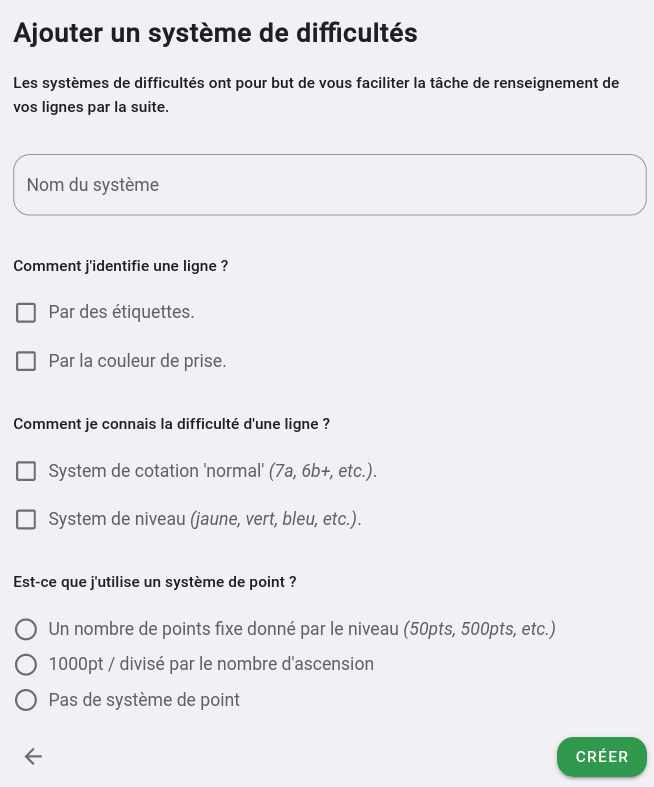
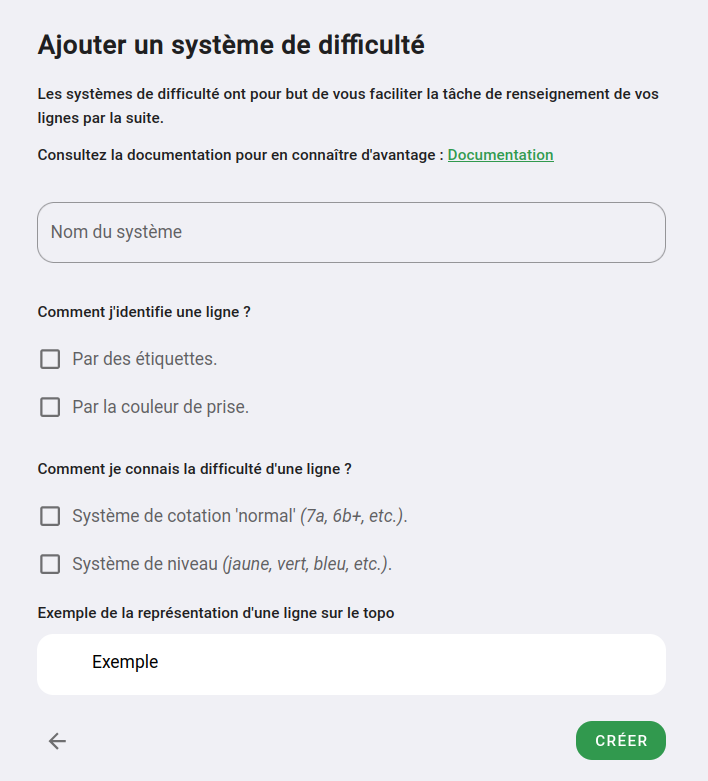
Mise à jour de la documentation par rapport au nouveau système de classement

diff --git a/docs/indoor/systeme-de-classement/index.md b/docs/indoor/systeme-de-classement/index.md
@@ -1,0 +1,43 @@
+---
+title: Les systèmes de classement
+layout: default
+parent: Oblyk pour les salles
+nav_order: 3
+has_children: false
+---
+
+# Les systèmes de classement
+
+Pour chaque typologie d'escalade dans votre salle _(voie, bloc et pan/traversée)_, vous pouvez décider de comment Oblyk réalisera le classement mensuel de vos grimpeurs et grimpeuses.
+
+Pour paramétrer les systèmes de classement rendez-vous sur votre espace d'administration _(partie "Mes salles" dans le menu de gauche)_  
+Cliquer sur le bouton **"Les classements"**.
+
+Vous tomberez sur cette page, ou vous pouvez choisir pour chaque type d'escalade la méthodologie de calcul de point que vous souhaitez.
+
+{: .images }
+[![Les systèmes de classement](../../../assets/images/systeme-de-classement_desktop.png)](../../../assets/images/systeme-de-classement_desktop.png)
+
+**1000 points divisés par le nombre d'ascensions :**  
+Chaque voie, bloc ou pan vaut 1000 points, plus cette ligne est répétée, moins elle vaut de point, exemple :
+- 0 ou une ascension : 1000 points
+- 2 ascensions : 500 points
+- 3 ascensions : 333 points
+- 4 ascensions : 250 points
+- etc.
+
+C'est le système le plus couramment utilisé pour le **bloc** 
+
+**Point par cotation :**  
+Suivant la cotation d'une voie (4a, 6a+, 7b, etc.) un nombre de points défini lui est attribué.  
+Ce nombre de points suit un schéma exponentiel, ainsi un 1a vaut 1 point, un 9a vaut 2000 points.
+
+{: .images }
+[![Graphique des points par cotation](../../../assets/images/graphique-point-par-cotation.png)](../../../assets/images/graphique-point-par-cotation.png)
+
+**Points fixed :**  
+Vous choisissez de ne pas utiliser l'un des systèmes précédents et il vous sera demander de donner un nombre de points à chaque voie/bloc que vous ajoutez à votre topo.  
+(Vous pouvez donner un nombre de points par niveau dans votre système de difficulté pour préfixer une valeur par rapport à vos couleurs de prises ou d'étiquettes)
+
+{: .text-right }
+[Les espaces](../espace){: .btn }

diff --git a/docs/indoor/systeme-de-difficulte/creer-un-niveau.md b/docs/indoor/systeme-de-difficulte/creer-un-niveau.md
@@ -11,7 +11,7 @@ nav_order: 3
 Maintenant que vous avez établie le fonctionnement général de votre système de difficulté, vous allez pouvoir créer les niveaux que contient votre système.
 
 {: .alert .info }
-Si vous utilisez uniquement un système de cotation standard (6a, 7a, etc.) vous n'avez pas besoin de créer de niveau
+Si vos couleurs d'étiquettes ou de prises ne représentent pas la difficulté, vous n'avez pas besoin de créer un des niveaux de difficultés.
 
 Les niveaux vous permettent de définir dans quel ordre fonctionnent vos couleurs, mais aussi de donner une cotation pour chaque couleur (et ainsi gagner du temps lors du renseignement de vos voies)
 
@@ -40,5 +40,9 @@ L'ordre au sien de votre système. Le plus facile sera 1, puis 2, et ainsi de su
 **Couleur des prises / étiquette :**  
 Donnez la couleur de prise, ou d'étiquette que vous utilisez pour indiquer ce niveau.
 
+**Imposer un nombre de points :**  
+Oblyk peut classer vos grimpeurs suivant plusieurs types de classement, comme : chaque bloc vaut 1000pt divisé par le nombre d'ascensions, un nombre de points par rapport à la cotation, etc.  
+Mais vous pouvez décider de créer vous-même un système en donnant arbitrairement un nombre de points lié au niveau que vous êtes en train de créer.
+
 {: .text-right }
-[Les espaces](../espace){: .btn }
+[Les systèmes de classement](../systeme-de-classement){: .btn }

diff --git a/docs/indoor/systeme-de-difficulte/creer-un-systeme.md b/docs/indoor/systeme-de-difficulte/creer-un-systeme.md
@@ -41,19 +41,5 @@ En tant que grimpeur / grimpeuse, quand j'arrive dans votre salle, comment je re
 Vous pouvez très bien avoir les deux systèmes, avoir une couleur de prise qui donne un niveau général, et une cotation pour le niveau réel.  
 Dans ce cas, cochez les deux cases.
 
-## Est-ce que j'utilise un système de point
-
-En complément de la difficulté donnée par la couleur de prise, les étiquettes ou la cotation, vous pouvez définir un système de point.
-
-Nous prenons en charge 2 systèmes de points :
-
-- Les points fixes, quand vous fait un bloc ou une voie, on vous donne un nombre établi de points pour cette ligne  
-  👉 Si vous voulez utiliser ce système, cochez **"Un nombre de points fixe"**
-
-- Les points divisés par le nombre d'ascensions. Chaque ligne vaut 1000 points, plus la ligne est grimpée, moins elle vaut de point  
-  👉 Si vous voulez utiliser ce système, cochez **"1000pt / divisé par le nombre d'ascensions"**
-
-Vous pouvez ne pas utiliser de système de point.
-
 {: .text-right }
 [Créer un niveau au sein de mon système](creer-un-niveau){: .btn }

diff --git a/docs/indoor/voie-et-bloc/index.md b/docs/indoor/voie-et-bloc/index.md
@@ -2,7 +2,7 @@
 title: Les voies et blocs
 layout: default
 parent: Oblyk pour les salles
-nav_order: 5
+nav_order: 6
 has_children: true
 ---
 

diff --git a/docs/indoor/secteur/index.md b/docs/indoor/secteur/index.md
@@ -2,7 +2,7 @@
 title: Les secteurs
 layout: default
 parent: Oblyk pour les salles
-nav_order: 4
+nav_order: 5
 has_children: true
 ---
 

diff --git a/docs/indoor/espace/index.md b/docs/indoor/espace/index.md
@@ -2,7 +2,7 @@
 title: Les espaces
 layout: default
 parent: Oblyk pour les salles
-nav_order: 3
+nav_order: 4
 has_children: true
 ---
 
